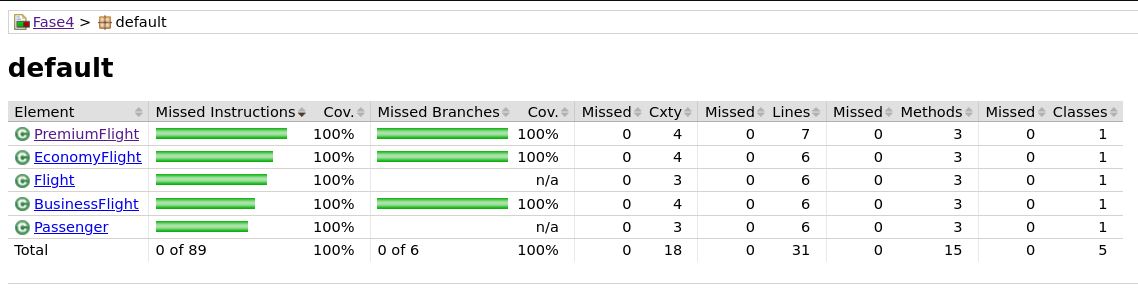
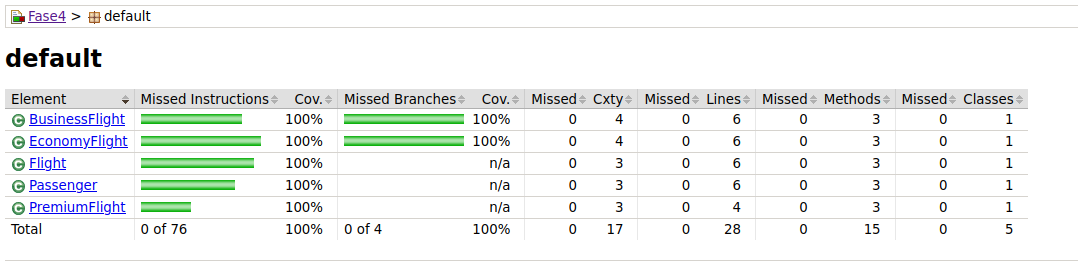
Added test and coverage images

diff --git a/Fase4/Produccion/PremiumFlight.java b/Fase4/Produccion/PremiumFlight.java
@@ -7,16 +7,12 @@ public class PremiumFlight extends Flight {
 
     @Override
     public boolean addPassenger(Passenger passenger) {
-        if (passenger.isVip())
-            return passengers.add(passenger);
-        else
             return false;
     }
 
     @Override
     public boolean removePassenger(Passenger passenger) {
-        passengers.remove(passenger);
-        return true;
+        return false;
     }
 
 }
